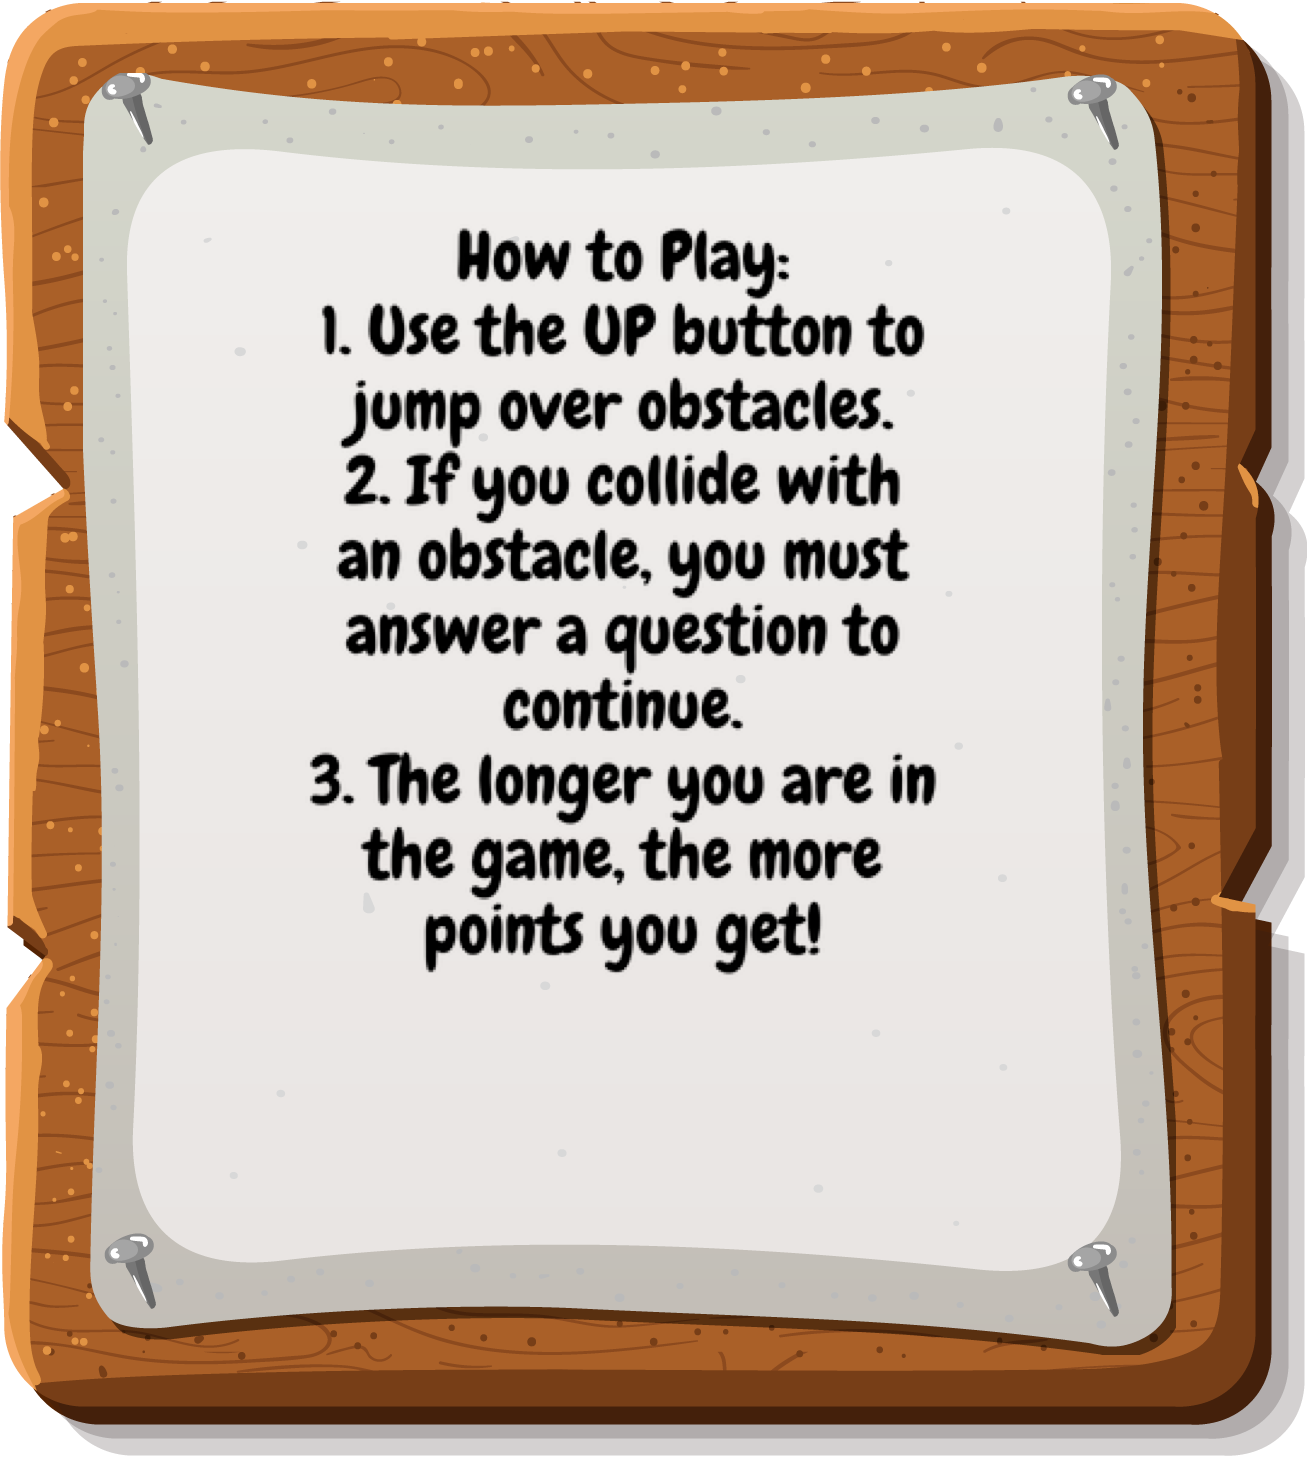
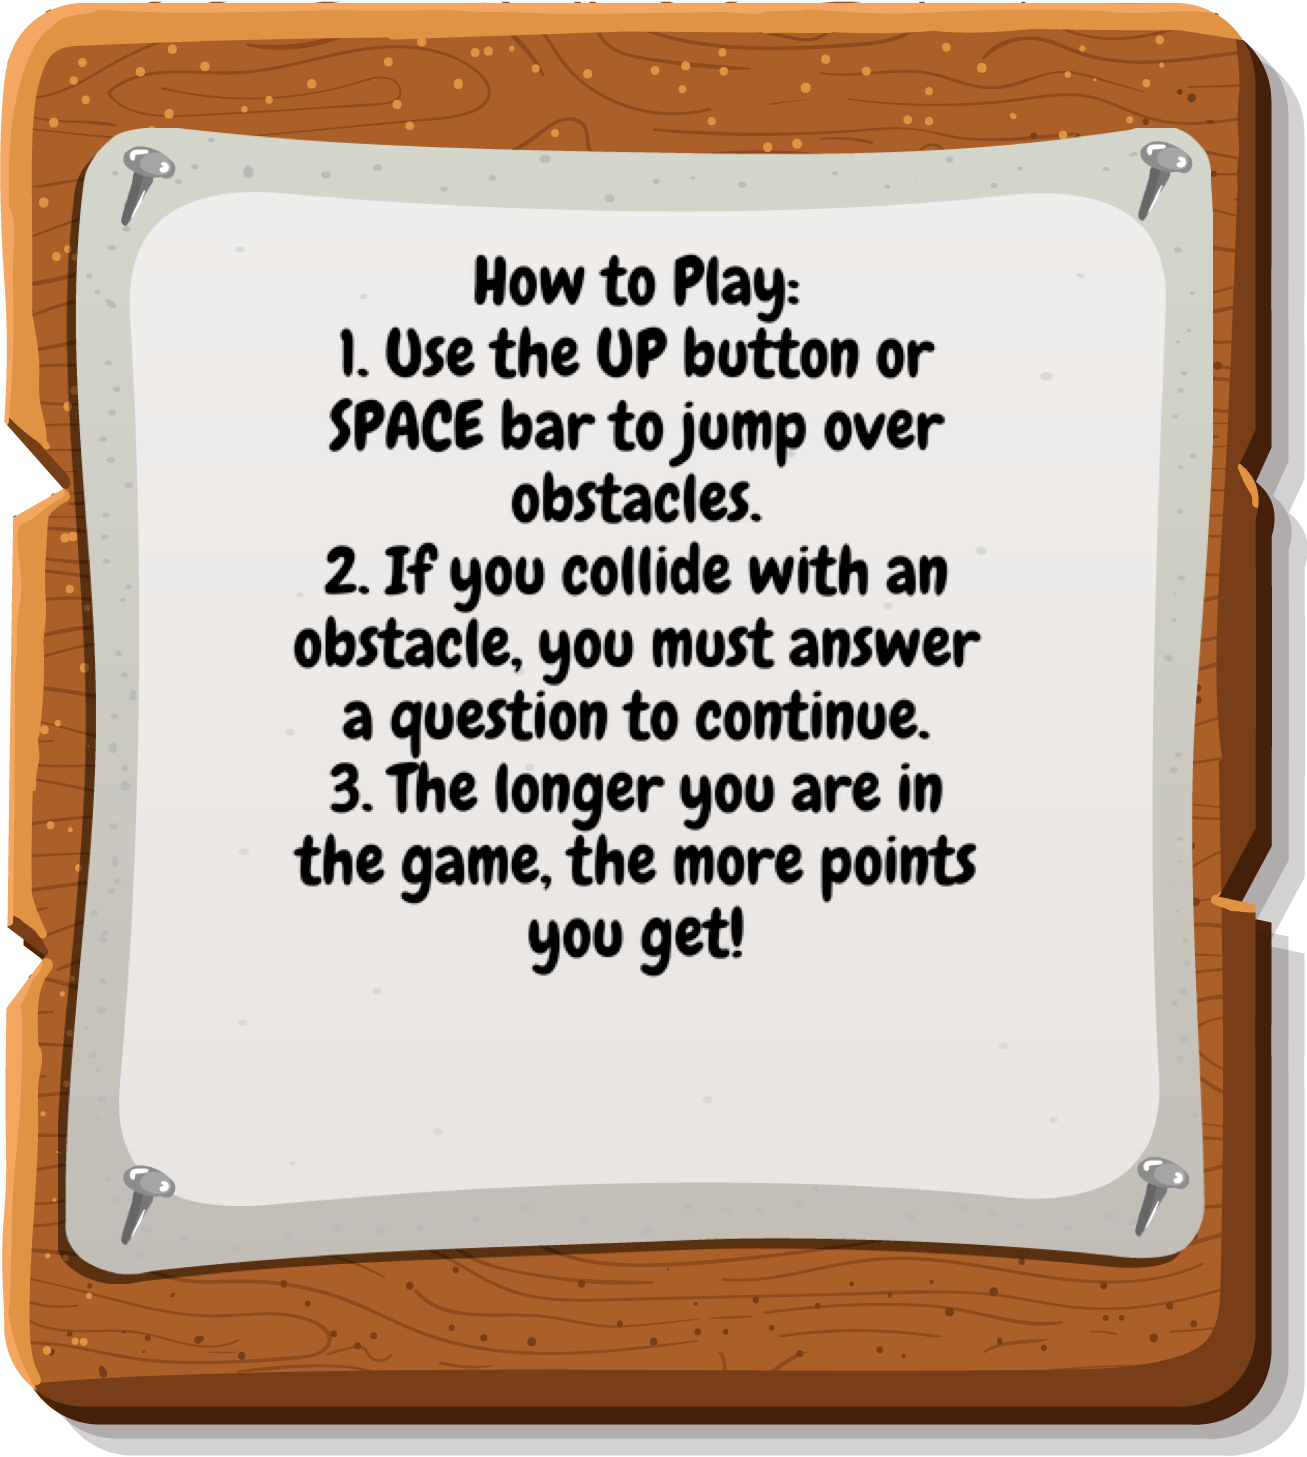
rules page done & sprite fixed

diff --git a/src/main.js b/src/main.js
@@ -1,11 +1,24 @@
 import Phaser from 'phaser';
 import mountains from './assets/mountains.png';
-import dude from './assets/dude.png';
 import wood from './assets/wood.png';
 import welcomeSprite from './assets/welcomeSprite.png';
 import welcome from './assets/welcome.png';
 import play from './assets/play.png';
 import rules from './assets/faq.png';
+import ok from './assets/ok.png';
+import rulesList from './assets/rulesList.png';
+import run1 from './assets/islandBoyRun/1.png';
+import run2 from './assets/islandBoyRun/2.png';
+import run3 from './assets/islandBoyRun/3.png';
+import run4 from './assets/islandBoyRun/4.png';
+import run5 from './assets/islandBoyRun/5.png';
+import run6 from './assets/islandBoyRun/6.png';
+import jump1 from './assets/islandBoyJump/1.png';
+import jump2 from './assets/islandBoyJump/2.png';
+import jump3 from './assets/islandBoyJump/3.png';
+import jump4 from './assets/islandBoyJump/4.png';
+import jump5 from './assets/islandBoyJump/5.png';
+import jump6 from './assets/islandBoyJump/6.png';
 
 let player;
 let cursors;
@@ -15,7 +28,6 @@ let gameScene = new Phaser.Scene('Game');
 
 gameScene.preload = function() {
   this.load.image('mountains', mountains);
-  this.load.spritesheet('dude', dude, { frameWidth: 32, frameHeight: 48 });
   this.load.image('wood', wood);
 };
 
@@ -41,36 +53,53 @@ gameScene.create = function() {
     platform.create((i * 150), 490, 'wood').setScale(0.5).refreshBody();
   }
 
-  player = this.physics.add.sprite(100, 400, 'dude');
-  player.body.setGravityY(300);
-  player.setBounce(0.2);
-  player.setCollideWorldBounds(true);
-
-  // make sure little dude collides with platform
-  this.physics.add.collider(player, platform);
-
-  // animations
   this.anims.create({
     key: 'run',
-    frames: this.anims.generateFrameNumbers('dude', { start: 5, end: 8 }),
-    frameRate: 10,
-    repeat: -1,
+    frames: [
+      { key: 'run1' },
+      { key: 'run2' },
+      { key: 'run3' },
+      { key: 'run4' },
+      { key: 'run5' },
+      { key: 'run6' , duration: 20},
+    ],
+    frameRate: 7,
+    // repeat: -1,
   });
   this.anims.create({
-    key: 'stand',
-    frames: [{ key: 'dude', frame: 4 }],
-    frameRate: 20,
-  })
+    key: 'jump',
+    frames: [
+      { key: 'jump1' },
+      { key: 'jump2' },
+      { key: 'jump3' },
+      { key: 'jump4' },
+      { key: 'jump5' },
+      { key: 'jump6', duration: 100 },
+    ],
+    frameRate: 15,
+    repeat: -1,
+  });
+
+  player = this.physics.add.sprite(150, 400, 'run1').setScale(0.1);
+  player.setBounce(0.2);
+  player.body.setGravityY(300);
+  player.setCollideWorldBounds(true);
+
+  this.physics.add.collider(player, platform);
+
 };
 
 gameScene.update = function() {
   // input cursor events
   let onGround = player.body.blocked.down || player.body.touching.down;
   cursors = this.input.keyboard.createCursorKeys();
+
   player.anims.play('run', true);
   this.mountains.tilePositionX += 4;
-  if (cursors.up.isDown && onGround) {
+
+  if ((cursors.up.isDown || cursors.space.isDown) && onGround) {
     player.body.setVelocityY(-400);
+    player.anims.play('jump', true);
   }
 };
 
@@ -83,6 +112,18 @@ welcomeScene.preload = function() {
   this.load.image('welcome', welcome);
   this.load.image('play', play);
   this.load.image('rules', rules);
+  this.load.image('run1', run1);
+  this.load.image('run2', run2);
+  this.load.image('run3', run3);
+  this.load.image('run4', run4);
+  this.load.image('run5', run5);
+  this.load.image('run6', run6);
+  this.load.image('jump1', jump1);
+  this.load.image('jump2', jump2);
+  this.load.image('jump3', jump3);
+  this.load.image('jump4', jump4);
+  this.load.image('jump5', jump5);
+  this.load.image('jump6', jump6);
 },
 
 welcomeScene.create = function() {
@@ -115,6 +156,44 @@ welcomeScene.create = function() {
   rulesButton.on('pointerdown', () => this.scene.start(rulesScene));
 };
 
+let rulesScene = new Phaser.Scene('Rules');
+
+rulesScene.preload = function() {
+  this.load.image('mountains', mountains);
+  this.load.image('wood', wood);
+  this.load.image('welcome', welcome);
+  this.load.image('ok', ok);
+  this.load.image('rulesList', rulesList);
+},
+
+rulesScene.create = function() {
+  let windowWidth = window.innerWidth;
+  let windowHeight = window.innerHeight;
+
+  let topBackgroundXOrigin = windowWidth / 2;
+  let topBackgroundYOrigin = (windowHeight / 5) * 1.5;
+  let topBackgroundHeight = (windowHeight / 5) * 3;
+
+  let imageBaseWidth = 1920;
+  let imageBaseHeight = 1080;
+  let heightRatio = topBackgroundHeight / imageBaseHeight;
+
+  this.mountains = this.add.tileSprite(400, 210, imageBaseWidth, imageBaseHeight, 'mountains');
+  this.mountains.setScale(0.5);
+
+  // create ground & scale to fit the width of the game
+  platform = this.physics.add.staticGroup();
+
+  for (let i = 0; i < 6; i++) {
+    platform.create((i * 150), 490, 'wood').setScale(0.5).refreshBody();
+  }
+
+  this.add.sprite(170, 400, 'welcomeSprite').setScale(0.3);
+  this.add.image(540, 245, 'rulesList').setScale(0.3);
+  const okButton = this.add.sprite(535, 350, 'ok').setScale(0.24).setInteractive({ useHandCursor: true });
+  okButton.on('pointerdown', () => this.scene.start(welcomeScene));
+};
+
 const config = {
   type: Phaser.AUTO,
   width: 800,
@@ -126,7 +205,7 @@ const config = {
       debug: false,
     },
   },
-  scene: [welcomeScene, gameScene],
+  scene: [welcomeScene, gameScene, rulesScene],
 };
 
 let game = new Phaser.Game(config);
